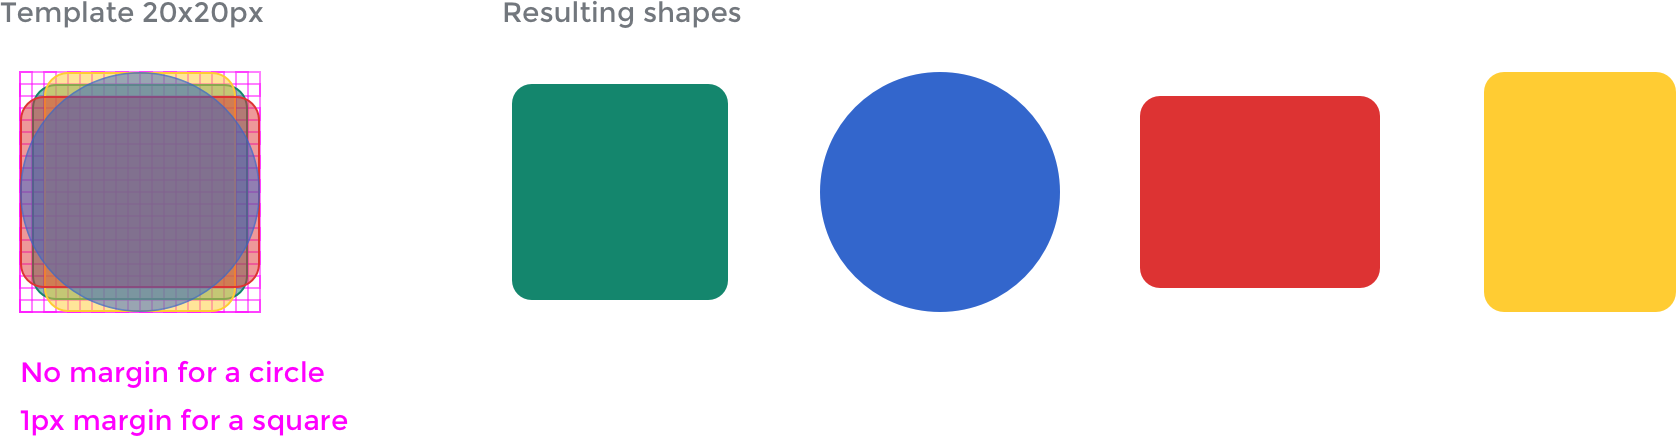
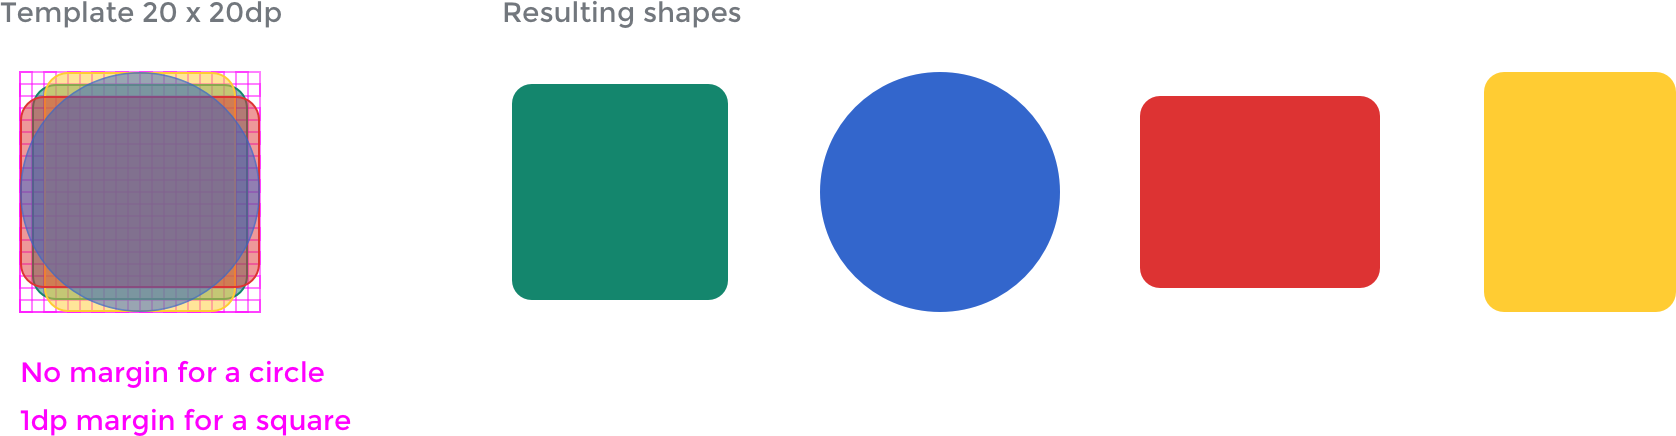
Clarify, unify and explain value units, especially `dp` (#50) Clarifying and unifying value units across sections. Adding explanation and reference for `dp` unit.

Changed region(s): [[0.0, 0.9243, 0.2172, 1.0], [0.0931, 0.0, 0.1862, 0.0596]]

diff --git a/visual-style_icons.html b/visual-style_icons.html
@@ -81,17 +81,18 @@
 						<li><b>Monochromatic.</b> Solid color icons.</li>
 						<li><b>Geometric.</b> Comprised of simple and ideally symmetrical geometric shapes. Symmetrical icons tend to be more universally applicable (an open book rather than a closed book with binding on left or right side). </li>
 						<li><b>Front-facing. </b>Icons are flat and front facing, not multi-dimensional.</li>
-						<li><b>Rounded corners.</b> Corners are rounded to make shapes more friendly and welcoming. For the default icon canvas of 20 x 20 dp, use 2 dp rounded corners. Note that rounded corners are applied only on the exterior of an icon shape, not interior corners.</li>
-						<li><b>Medium thick stroke.</b> Lines and outline should be visible at smaller sizes without effort, for the default icon canvas of 20 x 20 dp, use a 2 dp thick stroke as standard. Endpoints of lines are square in keeping with simple geometric shapes.</li>
+						<li><b>20 x 20&#160;dp default canvas.</b> WikimediaUI icons are put on a 20 x 20 device-independent pixel (`dp`)<sup><a href="#References">[2]</a></sup> canvas per default.</li>
+						<li><b>Rounded corners.</b> Corners are rounded to make shapes more friendly and welcoming. For the default canvas use 2&#160;dp rounded corners. Note that rounded corners are applied only on the exterior of an icon shape, not interior corners.</li>
+						<li><b>Medium thick stroke.</b> Lines and outline should be visible at smaller sizes without effort, for the default icon canvas use a 2&#160;dp thick stroke as standard. Endpoints of lines are square in keeping with simple geometric shapes.</li>
 						<li><b>Diagonal cross-out lines.</b> For icons that appear to be crossed-out, the cross-out line starts from the top-left of the icon and continues at a 45 degree angle to the bottom right (similar to a backslash “\”).</li>
 					</ul>
 
 					<h3>Guidelines for creating icons</h3>
 					<figure>
-						<figcaption>Icons follow a template. The default canvas is 20 x 20 dp. In order to allow for optical adjustments, a different margin is applied depending on the shape of the icon.</figcaption>
+						<figcaption>Icons follow a template. The default canvas is 20 x 20&#160;dp. In order to allow for optical adjustments, a different margin is applied depending on the shape of the icon.</figcaption>
 						<img src="img/visual-style/icons-optical-adjustment.png" alt="Icon sizes at different shapes for optical adjustment">
 					</figure>
-					<p>Different shapes have a different perceived size. A 1px margin for square-shaped icon is used whilst a circle uses the full 20 x 20 dp canvas available to reach a similar perceived size.</p>
+					<p>Different shapes have a different perceived size. A 1&#160;dp margin for square-shaped icon is used whilst a circle uses the full 20 x 20&#160;dp canvas available to reach a similar perceived size.</p>
 					<p><b>Black icons</b> <br>
 						Use black (<a href="#colors">Base0</a>) on a transparent background as the boldest representation of an icon. The color can be changed when the icon is used (preferably done automatically by software).</p>
 					<p><b>Filled areas with no stroke outlines</b> <br>
@@ -99,16 +100,16 @@
 					<p><b>Pixel-fitting</b> <br>
 						Ensure icon shape edges are fit to pixels as closely as possible so that shapes are not distorted or fuzzy.</p>
 					<p><b>Right-to-left (RTL) and left-to-right (LTR) considerations</b> <br>
-						In cases where the icon is non-symmetrical, consider whether RTL or LTR directionality changes the meaning conveyed before creating the alternate direction variation. For example, the play button is universally seen as a triangle with a straight left edge and does not require two variations, whilst a bullet list icon would show the 'bullets' in the list on the right or left side depending on whether it is shown in RTL or LTR language context.</p>
+						In cases where the icon is non-symmetrical, consider whether RTL or LTR directionality changes the meaning conveyed before creating the alternate direction variation. For example, the play button is universally seen as a triangle with a straight left edge and does not require two variations, whilst a bullet list icon would show the “bullets” in the list on the right or left side depending on whether it is shown in RTL or LTR language context.</p>
 
 					<h3>Usage</h3>
 					<p><b>Clearance on touch devices</b> <br>
-						When using icons consider the size of their target area. Even if icons are presented at a smaller size, make sure that the associated active area is at least 44 x 44 dp. Otherwise users may fail to hit the active area, not getting the expected result.</p>
+						When using icons consider the size of their target area. Even if icons are presented at a smaller size, make sure that the associated active area is at least 44 x 44&#160;dp. Otherwise users may fail to hit the active area, not getting the expected result.</p>
 
 					<!-- FIXME: Use of labels -->
 					<p><b>Adapt and remix</b> <br>
 						Our icons are free licensed under CC BY 4.0. <br>
-						The simple style and guidelines make it easy to reuse or adapt existing freely licensed icons that you can find on other repos such as <a href="https://material.io/icons/" target="_blank">Material icons</a> <sup><a href="#References">[2]</a></sup> or the <a href="https://thenounproject.com/" target="_blank">Noun project</a> <sup><a href="#References">[3]</a></sup>. You are welcome to use existing icons that align to the proposed style instead of reinventing the wheel icon.</p>
+						The simple style and guidelines make it easy to reuse or adapt existing freely licensed icons that you can find on other repos such as <a href="https://material.io/icons/" target="_blank">Material icons</a> <sup><a href="#References">[3]</a></sup> or the <a href="https://thenounproject.com/" target="_blank">Noun project</a> <sup><a href="#References">[3]</a></sup>. You are welcome to use existing icons that align to the proposed style instead of reinventing the wheel icon.</p>
 
 					<h3>Resources</h3>
 					<p>The <a href="https://doc.wikimedia.org/oojs-ui/master/demos/#icons-mediawiki-ltr">OOjs UI icon repository</a> provides a list of the currently available icons.</p>
@@ -116,6 +117,7 @@
 					<h3 id="References">References</h3>
 					<ol>
 						<li>Thanks to volunteer contributor <a href="https://phabricator.wikimedia.org/p/SamanthaNguyen/" target="_blank">@SamanthaNguyen</a> for many suggestions on the “Principles” section in icons on <a href="https://phabricator.wikimedia.org/T155684" target="_blank">Phabricator task T155684</a>.</li>
+						<li>1&#160;dp equals 1&#160;px in CSS at 100% zoom level and 1x device.<a href="https://en.wikipedia.org/wiki/Device-independent_pixel" target="_blank">Device-independent pixel on English Wikipedia</a>.</li>
 						<li>Google offers a <a href="https://material.io/guidelines/style/icons.html" target="_blank">Material icons overview and guide to use</a>.</li>
 						<li>The Noun Project provides curated <a href="https://thenounproject.zendesk.com/hc/en-us/articles/200509798-What-licenses-do-you-use-" target="_blank">icon sets that are either Creative Commons Attribution (CC BY) or Public Domain (PD)</a>.</li>
 					</ol>

diff --git a/visual-style_illustrations.html b/visual-style_illustrations.html
@@ -65,25 +65,25 @@
 					<h3>Illustration style</h3>
 					<img src="img/visual-style/illustrations-sample.png" alt="Sample of illustrations">
 					<p><strong>Colored backgrounds</strong><br>
-					Illustrations that appear on a colored background should not include an outline stroke. Elements inside of the illustration should also not contain an outline stroke. Any lines inside of the illustration should have a weight of 2px. The illustration can utilize any of the colors available in the style guide excluding Base0.</p>
+					Illustrations that appear on a colored background should not include an outline stroke. Elements inside of the illustration should also not contain an outline stroke. Any lines inside of the illustration should have a weight of 2&#160;dp. The illustration can utilize any of the colors available in the style guide excluding Base0.</p>
 					<p><strong>White background</strong><br>
-					Illustrations that appear on a white background should include a 2px outline stroke in Base50. Elements inside of the illustration can contain an outline stroke, this stroke should also be a 2px stroke in Base50. The illustration can utilize any of the colors available in the style guide excluding Base0.</p>
+					Illustrations that appear on a white background should include a 2&#160;dp outline stroke in Base50. Elements inside of the illustration can contain an outline stroke, this stroke should also be a 2&#160;dp stroke in Base50. The illustration can utilize any of the colors available in the style guide excluding Base0.</p>
 					<p><strong>Grey scale</strong><br>
-					Grey scale illustrations (for use in empty states) should include a 2px outline stroke in Base60. Elements inside of the illustration can contain an outline stroke, this stroke should also be a 2px stroke in Base60. The illustration should only include base colors excluding Base0.</p>
+					Grey scale illustrations (for use in empty states) should include a 2&#160;dp outline stroke in Base60. Elements inside of the illustration can contain an outline stroke, this stroke should also be a 2&#160;dp stroke in Base60. The illustration should only include base colors excluding Base0.</p>
 
 					<h3>Using illustrations</h3>
 					<p>Illustrations should be used as a supporting element alongside text and should never appear alone. Illustrations should be relevant and context-aware of their surroundings, do not include illustrations simply for decoration. Empty states, onboarding, or modals containing messaging are the primary use cases for utilizing illustrations. Utilize the appropriate illustration style depending on the background that the illustration will be presented on.</p>
 					<p>Illustrations should never appear pixelated. Test the resolution of your illustration for the specific the ratios you will be using it in.</p>
 
 					<h3>Creating illustrations</h3>
-					<p>Illustrations should fit within a 200px by 200px square. Some illustrations may need to be taller than they are wide (and visa versa) but overall illustrations should look balanced within their 200px boundary.</p>
+					<p>Illustrations should fit within a 200&#160;dp by 200&#160;dp square. Some illustrations may need to be taller than they are wide (and visa versa) but overall illustrations should look balanced within their 200&#160;dp boundary.</p>
 					<p>Illustrations must adhere to the colors outlined in this style guide, however no illustrations should use Base0. Illustrations may include transparent elements or cut outs, however all non-transparent elements should be displayed at 100% opacity.</p>
 					<p>When designing a new illustration, focus on legibility. Illustrations consist of a single element or focused composition. Illustrations should be simple, clear, universal and memorable.</p>
 					<p>Illustrations should be simple. They use monochromatic vector-based shapes with the following properties:</p>
 					<ul>
 						<li>Filled areas. Shapes are defined by filled areas as opposed to outlines.</li>
-						<li>Rounded corners. Corners are slightly rounded (2px) to make shapes more friendly and welcoming, but not too much to look goofy.</li>
-						<li>2px outline stroke, except for illustrations that appear on colored backgrounds.</li>
+						<li>Rounded corners. Corners are slightly rounded (2&#160;dp) to make shapes more friendly and welcoming, but not too much to look goofy.</li>
+						<li>2&#160;dp outline stroke, except for illustrations that appear on colored backgrounds.</li>
 					</ul>
 				</main>
 			</div>

diff --git a/visual-style_typography.html b/visual-style_typography.html
@@ -132,7 +132,7 @@
 					<p>The recommended styles are intended to optimise readability with the density of Wikipedia’s encyclopedic content.</p>
 					<p>Using the body text size of 16 scale-independent pixels (sp) as a base, a typographic scale of 1.125 was used to derive a harmonious rhythm between font-sizes for various headings and body copy.</p>
 					<img src="img/visual-style/typography-scale.png" alt="Scale of sizes used for text">
-					<p>The scale-independent pixels can result in a different number of actual pixels in the user screen due to screen density or user preferences. A 16sp text is rendered as 16px in a 1x device at standard zoom level, but it becomes 21px in a 2x device (or when zoomed 200% on a 1x device).</p>
+					<p>The scale-independent pixels can result in a different number of actual pixels in the user screen due to screen density or user preferences. A 16&#160;sp text is rendered as 16&#160;px in a 1x device at standard zoom level, but it becomes 21&#160;px in a 2x device (or when zoomed 200% on a 1x device).</p>
 					<p>Common text styles are based on the defined scale in order to communicate clearly the content hierarchy. </p>
 					<img src="img/visual-style/typography-styles.png" alt="Text styles defined">
 				</main>
